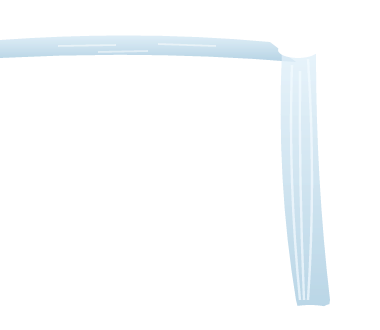
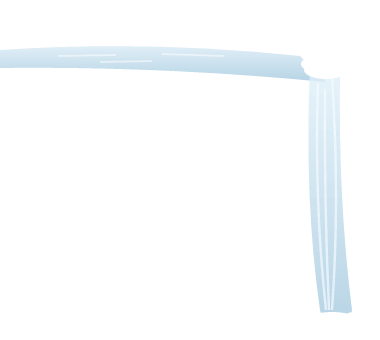
Grove: craggier overhanging rock + a designed fjord waterfall
- Rock redrawn from a "lightened square" into a craggy ledge that
  overhangs on the right with an undercut beneath the lip — it reads like
  cave rock that can cantilever, not a fully supported block. The falls
  spill off the overhanging lip and fall clear of the recess.
- Fjord now uses a proper asset too: a slim vertical falls sprite that
  crests over the snowy ridge and plunges into the sea.
- Both biomes now drive the waterfall entirely from sprites; the old
  procedural Graphics path (and wfG) is gone — code is just placement and
  the plunge rings.

Claude-Session: https://claude.ai/code/session_012Y31k2fRGnrx2NzYjmB8MW

Changed region(s): [[0.0, 0.0909, 0.9263, 0.9394]]

diff --git a/themes/Grove.html b/themes/Grove.html
@@ -568,7 +568,15 @@
             ducks: false,
             drag: false
           },
-          waterfall: {x: 700, top: 398, w: 18}, // spills over the ridge and cascades down the cliff into the sea
+          // a slim falls sprite spilling over the ridge into the sea
+          waterfall: {
+            falls: ['vfall_a', 'vfall_b'],
+            x: 700,
+            y: 606,
+            scale: 0.74,
+            ax: 0.5,
+            plungeX: 700
+          },
           walker: null,
           critter: null,
           hopper: null,
@@ -600,8 +608,16 @@
             [1220, 0xb98aff]
           ],
           glow: 'cave', // glowworms on the ceiling
-          // designed sprites: a big rock ledge on the left + the falling water that crosses + drops off it
-          waterfall: {sprite: true, x: -40, y: 614, scale: 1.12, plungeX: 303},
+          // designed sprites: a craggy overhang ledge + falls that cross its top and drop off the lip
+          waterfall: {
+            rock: 0x6b6488,
+            falls: ['falls_a', 'falls_b'],
+            x: -40,
+            y: 616,
+            scale: 1.12,
+            ax: 0,
+            plungeX: 332
+          },
           walker: null,
           critter: null,
           hopper: null,
@@ -673,7 +689,9 @@
         'peak',
         'bigrock',
         'falls_a',
-        'falls_b'
+        'falls_b',
+        'vfall_a',
+        'vfall_b'
       ];
       const T = (n) => PIXI.Assets.get(n);
       const spr = (n, x, y, s, ax, ay) => {
@@ -835,7 +853,6 @@
         rippleG,
         iceG,
         tracksG,
-        wfG,
         SE,
         BI,
         ready = false;
@@ -1037,11 +1054,11 @@
                 dropY: null
               });
           }
-          // the big rock ledge (a designed sprite, tinted to the cave's dark stone), behind the crystals
-          if (BI.waterfall && BI.waterfall.sprite) {
+          // the big rock ledge (a designed sprite, tinted to the cave's cool stone), behind the crystals
+          if (BI.waterfall && BI.waterfall.rock) {
             const wf = BI.waterfall,
-              rk = spr('bigrock', wf.x, wf.y, wf.scale, 0, 1);
-            rk.tint = 0x6b6488; // cool cave-stone, lit enough to read against the dark
+              rk = spr('bigrock', wf.x, wf.y, wf.scale, wf.ax, 1);
+            rk.tint = wf.rock; // lit enough to read against the dark
             scene.addChild(rk);
           }
         }
@@ -1361,18 +1378,14 @@
           water = null;
           iceG = null;
         }
-        if (BI.waterfall) {
-          wfG = new PIXI.Graphics();
-          scene.addChild(wfG); // coded fall (fjord) / plunge rings, above the water surface
-          if (BI.waterfall.sprite) {
-            // the falling water itself is a 2-frame sprite, sat in front of the rock + pool
-            const wf = BI.waterfall,
-              fa = anim(['falls_a', 'falls_b'], wf.x, wf.y, wf.scale, 0.05);
-            fa.anchor.set(0, 1);
-            if (reduce.matches) fa.gotoAndStop(0); // hold a still frame when motion is reduced
-            scene.addChild(fa);
-          }
-        } else wfG = null;
+        if (BI.waterfall && BI.waterfall.falls) {
+          // the falling water is a 2-frame sprite, in front of the rock + pool
+          const wf = BI.waterfall,
+            fa = anim(wf.falls, wf.x, wf.y, wf.scale, 0.05);
+          fa.anchor.set(wf.ax, 1);
+          if (reduce.matches) fa.gotoAndStop(0); // hold a still frame when motion is reduced
+          scene.addChild(fa);
+        }
         if (BI.flutter && !snow)
           for (let i = 0; i < 4; i++) {
             const f = anim(
@@ -2209,64 +2222,14 @@
           }
         }
 
-        // waterfall: the cave's is designed sprites (rock + 2-frame falls); the fjord is a coded spill
-        if (wfG) {
-          wfG.clear();
-          const wf = BI.waterfall;
-          if (wf.sprite) {
-            // the rock + falls are real sprites; just ring the pool where the water lands
-            if (water && Math.random() < 0.12 * dt)
-              ripples.push({
-                x: wf.plungeX + (Math.random() - 0.5) * 20,
-                y: 606,
-                r: 3,
-                life: 1
-              });
-          } else {
-            const w = wf.w || 22,
-              bot = wf.bot || 600;
-            wfG.beginFill(0xbfe0f0, 0.26); // a falling sheet with wavering sides
-            wfG.moveTo(wf.x - w / 2, wf.top);
-            for (let y = wf.top; y <= bot; y += 14)
-              wfG.lineTo(wf.x - w / 2 + Math.sin(y * 0.05 + t * 4) * 2.5, y);
-            for (let y = bot; y >= wf.top; y -= 14)
-              wfG.lineTo(
-                wf.x + w / 2 + Math.sin(y * 0.05 + t * 4 + 2) * 2.5,
-                y
-              );
-            wfG.closePath();
-            wfG.endFill();
-            for (let i = 0; i < 6; i++) {
-              const base = wf.x - w / 2 + ((i + 0.5) / 6) * w,
-                a = 0.12 + 0.16 * (0.5 + 0.5 * Math.sin(t * 3 + i * 2));
-              wfG.lineStyle(1.4, 0xeaf6ff, a);
-              wfG.moveTo(
-                base + Math.sin(wf.top * 0.05 + t * 4 + i) * 2.5,
-                wf.top
-              );
-              for (let y = wf.top; y <= bot; y += 14)
-                wfG.lineTo(base + Math.sin(y * 0.05 + t * 4 + i) * 2.5, y);
-            }
-            wfG.lineStyle(0);
-            for (let i = 0; i < 5; i++) {
-              const hx = wf.x - w / 2 + 3 + ((i * 0.41) % 1) * (w - 6),
-                hy = wf.top + ((t * (240 + i * 50) + i * 120) % (bot - wf.top));
-              wfG.beginFill(0xffffff, 0.6);
-              wfG.drawRect(hx - 1, hy, 2, 12);
-              wfG.endFill();
-            }
-            wfG.beginFill(0xffffff, 0.42 + Math.sin(t * 6) * 0.16); // base foam
-            wfG.drawEllipse(wf.x, bot, w * 0.8, 5);
-            wfG.endFill();
-            if (water && Math.random() < 0.12 * dt)
-              ripples.push({
-                x: wf.x + (Math.random() - 0.5) * w,
-                y: bot + 6,
-                r: 3,
-                life: 1
-              });
-          }
-        }
+        // waterfall (cave + fjord) are designed sprites; just ring the water where the fall lands
+        if (BI.waterfall && water && Math.random() < 0.12 * dt)
+          ripples.push({
+            x: BI.waterfall.plungeX + (Math.random() - 0.5) * 20,
+            y: 606,
+            r: 3,
+            life: 1
+          });
 
         // butterflies, dragonflies, bird — wandering / crossing
         for (const f of flutters) {

diff --git a/themes/grove/build-assets.js b/themes/grove/build-assets.js
@@ -760,38 +760,51 @@ save(
   430
 );
 
-// ---- NEW: waterfall set — a tintable rock ledge + the falling water (2 flow frames) ----
-// authored in one shared 380x330 frame so the water overlays the rock exactly when placed together
+// ---- NEW: waterfall set — a craggy overhanging rock ledge + falling water (2 flow frames) ----
+// bigrock + falls share one 380x340 frame so the water overlays the rock exactly when placed together
 save(
   'bigrock',
   S(
-    '380 330',
-    `<defs><linearGradient id="bk" x1="0" y1="0" x2="0" y2="1"><stop offset="0" stop-color="#cfd2dd"/><stop offset="1" stop-color="#7c7f92"/></linearGradient>
-<linearGradient id="bkt" x1="0" y1="0" x2="0" y2="1"><stop offset="0" stop-color="#eceef4"/><stop offset="1" stop-color="#b8bccb"/></linearGradient></defs>
-<path d="M0,330 L0,72 Q70,54 150,56 Q220,58 256,64 L308,84 L300,210 L334,330 Z" fill="url(#bk)"/>
-<path d="M0,72 Q70,54 150,56 Q220,58 256,64 L308,84 L306,104 Q210,82 150,80 Q70,80 0,92 Z" fill="url(#bkt)"/>
-<path d="M308,84 L300,210 L334,330 L352,330 L322,86 Z" fill="#5b5e70" opacity="0.55"/>
-<g fill="#9c9fb2" opacity="0.38"><path d="M44,140 L92,128 L78,196 L36,186 Z"/><path d="M150,168 L206,156 L196,232 L150,224 Z"/><path d="M236,150 L284,166 L270,226 L232,212 Z"/></g>
-<g fill="#e4e6ee" opacity="0.5"><path d="M20,96 L70,86 L58,120 L24,124 Z"/></g>`
+    '380 340',
+    `<defs><linearGradient id="bk" x1="0" y1="0" x2="0" y2="1"><stop offset="0" stop-color="#c9ccd8"/><stop offset="1" stop-color="#73768a"/></linearGradient>
+<linearGradient id="bkt" x1="0" y1="0" x2="0" y2="1"><stop offset="0" stop-color="#eef0f6"/><stop offset="1" stop-color="#aeb2c4"/></linearGradient></defs>
+<path d="M0,340 L0,78 L48,58 L106,68 L168,52 L232,64 L300,68 L332,94 L314,142 L288,170 L304,216 L284,268 L246,308 L196,340 Z" fill="url(#bk)"/>
+<path d="M0,78 L48,58 L106,68 L168,52 L232,64 L300,68 L332,94 L322,114 L300,88 L232,82 L168,72 L106,86 L48,78 L0,94 Z" fill="url(#bkt)" opacity="0.72"/>
+<path d="M332,94 L314,142 L288,170 L304,216 L290,218 L276,170 L300,138 L320,100 Z" fill="#3c3f4b" opacity="0.66"/>
+<g fill="#85889b" opacity="0.42"><path d="M30,128 L86,112 L72,190 L26,178 Z"/><path d="M128,152 L194,136 L184,224 L126,214 Z"/><path d="M216,120 L284,114 L296,178 L238,192 Z"/></g>
+<g fill="#dfe1ea" opacity="0.5"><path d="M16,100 L64,86 L52,126 L20,130 Z"/><path d="M150,70 L212,64 L200,98 L150,98 Z"/></g>`
   ),
   380
 );
 const falls = (a) =>
   S(
-    '380 330',
+    '380 340',
     `<defs><linearGradient id="fw" x1="0" y1="0" x2="0" y2="1"><stop offset="0" stop-color="#e2f1fa"/><stop offset="1" stop-color="#a6cadf"/></linearGradient></defs>
-<path d="M0,40 Q140,30 270,42 L296,62 Q150,50 0,58 Z" fill="url(#fw)" opacity="0.82"/>
-<path d="M282,50 Q276,180 296,300 Q300,320 314,320 Q328,320 330,300 Q316,180 316,54 Z" fill="url(#fw)" opacity="0.8"/>
-<g stroke="#f4fbff" stroke-width="2.4" fill="none" opacity="0.72"><path d="M292,${58 + a} Q288,180 300,300"/><path d="M308,${52 + a} Q316,180 308,300"/><path d="M300,${64 + a} Q299,180 304,300"/></g>
-<g stroke="#ffffff" stroke-width="1.8" opacity="0.5"><line x1="${30 + a * 4}" y1="46" x2="${88 + a * 4}" y2="45"/><line x1="${130 + a * 4}" y1="44" x2="${188 + a * 4}" y2="46"/><line x1="${70 + a * 4}" y1="52" x2="${120 + a * 4}" y2="51"/></g>
-<g fill="#ffffff"><ellipse cx="298" cy="50" rx="20" ry="8"/><ellipse cx="284" cy="44" rx="8" ry="5"/><ellipse cx="314" cy="46" rx="7" ry="5"/></g>
-<g fill="#ffffff"><ellipse cx="310" cy="314" rx="28" ry="9"/><ellipse cx="286" cy="310" rx="10" ry="6"/><ellipse cx="332" cy="310" rx="10" ry="6"/><ellipse cx="${300 + a * 3}" cy="318" rx="6" ry="4"/></g>`
+<path d="M0,50 Q150,40 300,56 L326,82 Q160,66 0,68 Z" fill="url(#fw)" opacity="0.82"/>
+<path d="M310,66 Q304,200 320,310 Q324,328 338,328 Q350,328 352,310 Q338,200 340,70 Z" fill="url(#fw)" opacity="0.8"/>
+<g stroke="#f4fbff" stroke-width="2.4" fill="none" opacity="0.72"><path d="M318,${76 + a} Q314,200 326,310"/><path d="M332,${70 + a} Q340,200 332,310"/><path d="M325,${82 + a} Q324,200 329,310"/></g>
+<g stroke="#ffffff" stroke-width="1.8" opacity="0.5"><line x1="${30 + a * 4}" y1="56" x2="${88 + a * 4}" y2="55"/><line x1="${134 + a * 4}" y1="54" x2="${196 + a * 4}" y2="56"/><line x1="${72 + a * 4}" y1="62" x2="${124 + a * 4}" y2="61"/></g>
+<g fill="#ffffff"><ellipse cx="326" cy="70" rx="22" ry="9"/><ellipse cx="310" cy="64" rx="9" ry="6"/><ellipse cx="342" cy="66" rx="8" ry="5"/></g>
+<g fill="#ffffff"><ellipse cx="332" cy="322" rx="28" ry="10"/><ellipse cx="308" cy="318" rx="10" ry="6"/><ellipse cx="354" cy="318" rx="10" ry="6"/><ellipse cx="${322 + a * 3}" cy="326" rx="6" ry="4"/></g>`
   );
 save('falls_a', falls(0), 380);
 save('falls_b', falls(7), 380);
 
+// a slim vertical fall for the fjord (water over the snowy cliff — foam crest at top, plunge at base)
+const vfall = (a) =>
+  S(
+    '90 280',
+    `<defs><linearGradient id="vf" x1="0" y1="0" x2="0" y2="1"><stop offset="0" stop-color="#e6f3fb"/><stop offset="1" stop-color="#aacfe2"/></linearGradient></defs>
+<path d="M30,12 Q22,140 32,266 Q44,276 56,266 Q66,140 58,12 Z" fill="url(#vf)" opacity="0.8"/>
+<g stroke="#f4fbff" stroke-width="2.2" fill="none" opacity="0.7"><path d="M36,${20 + a} Q30,140 40,262"/><path d="M52,${16 + a} Q60,140 50,262"/><path d="M44,${24 + a} Q43,140 46,262"/></g>
+<g fill="#ffffff"><ellipse cx="44" cy="14" rx="20" ry="8"/><ellipse cx="30" cy="10" rx="8" ry="5"/><ellipse cx="58" cy="11" rx="8" ry="5"/></g>
+<g fill="#ffffff"><ellipse cx="44" cy="268" rx="24" ry="9"/><ellipse cx="26" cy="264" rx="9" ry="6"/><ellipse cx="62" cy="264" rx="9" ry="6"/><ellipse cx="${40 + a * 3}" cy="274" rx="6" ry="4"/></g>`
+  );
+save('vfall_a', vfall(0), 90);
+save('vfall_b', vfall(7), 90);
+
 // ---- contact sheet of new + polished ----
-const review = ['bigrock', 'falls_a', 'falls_b', 'eagle', 'peak'];
+const review = ['bigrock', 'falls_a', 'vfall_a', 'eagle', 'peak'];
 const cols = 4,
   cell = 230,
   pad = 14,